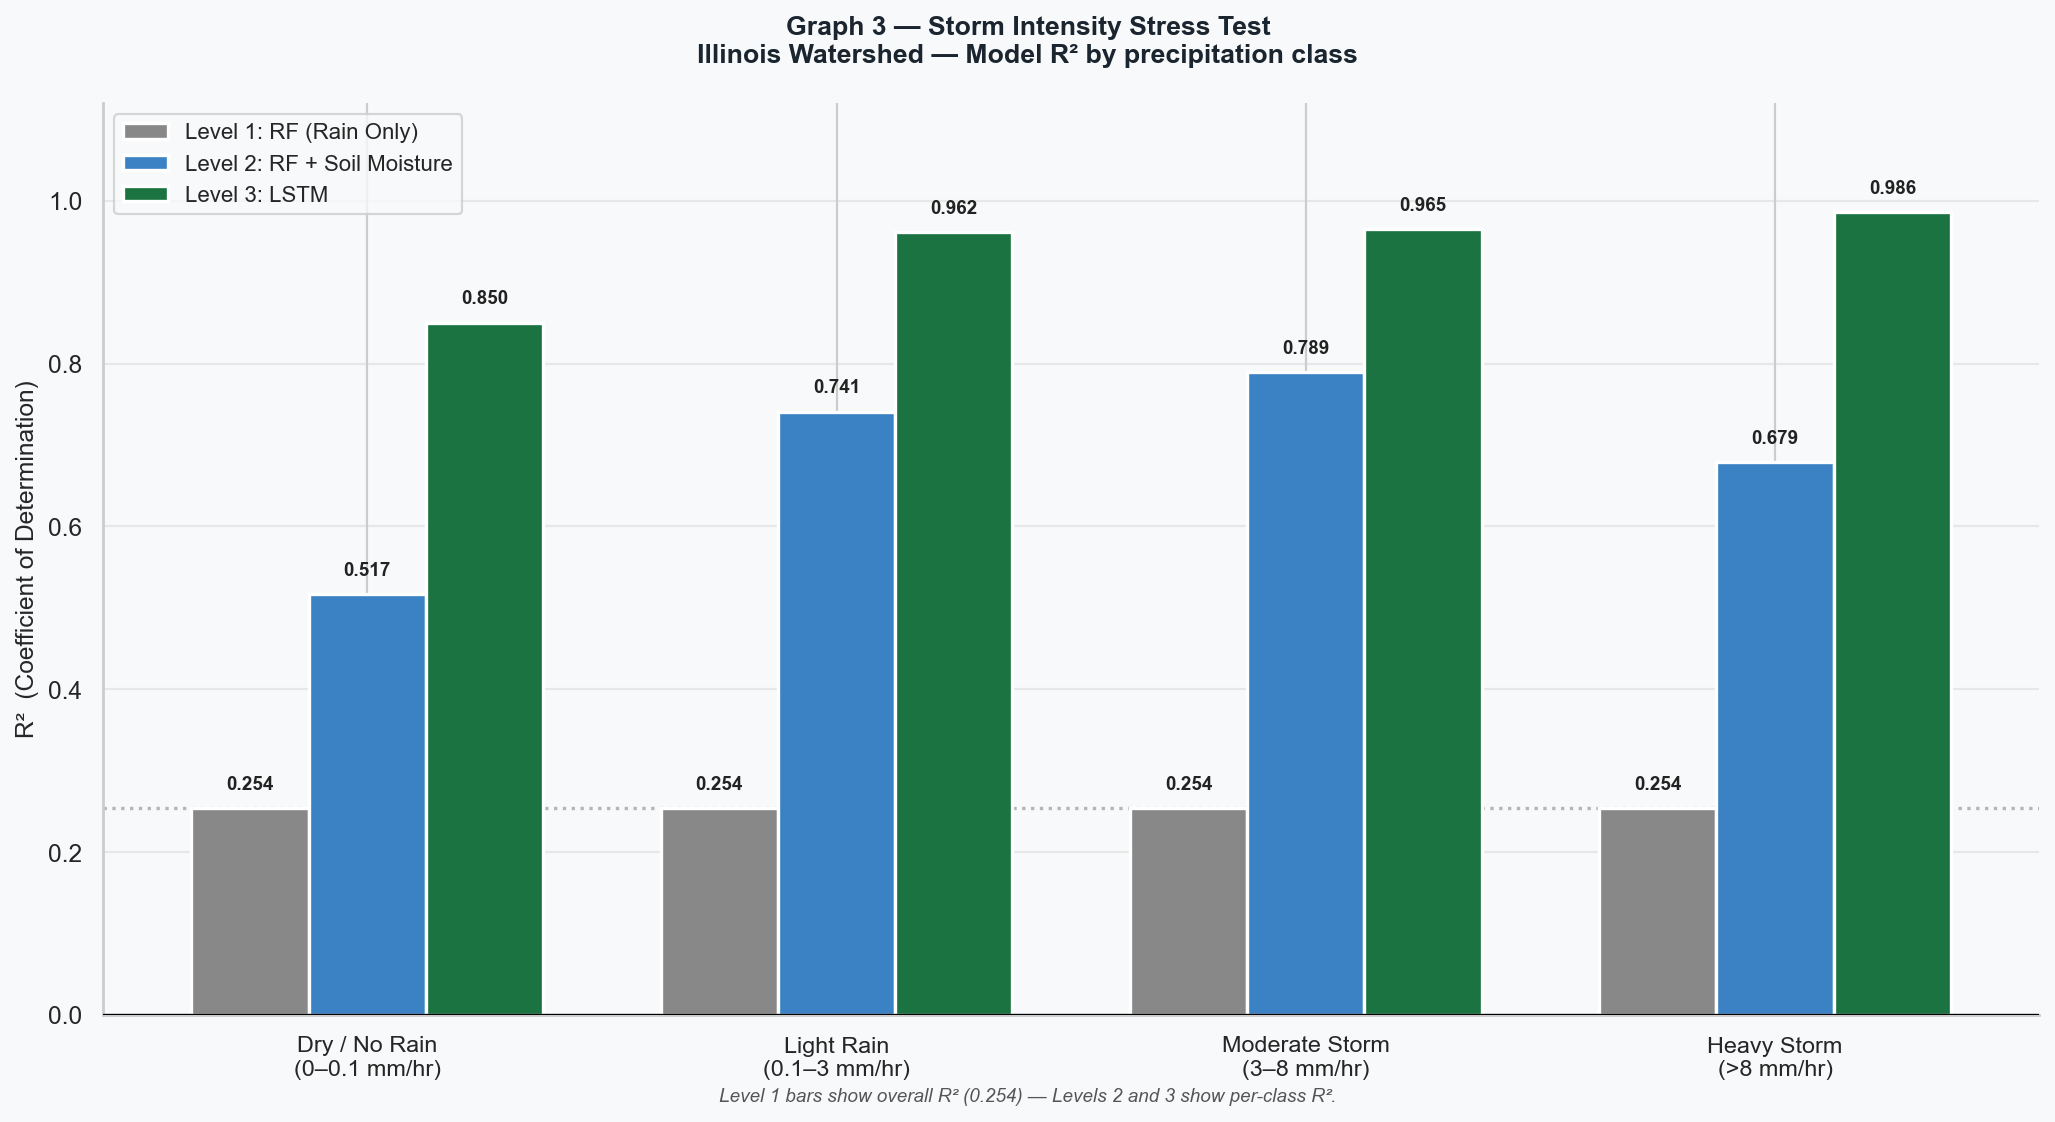
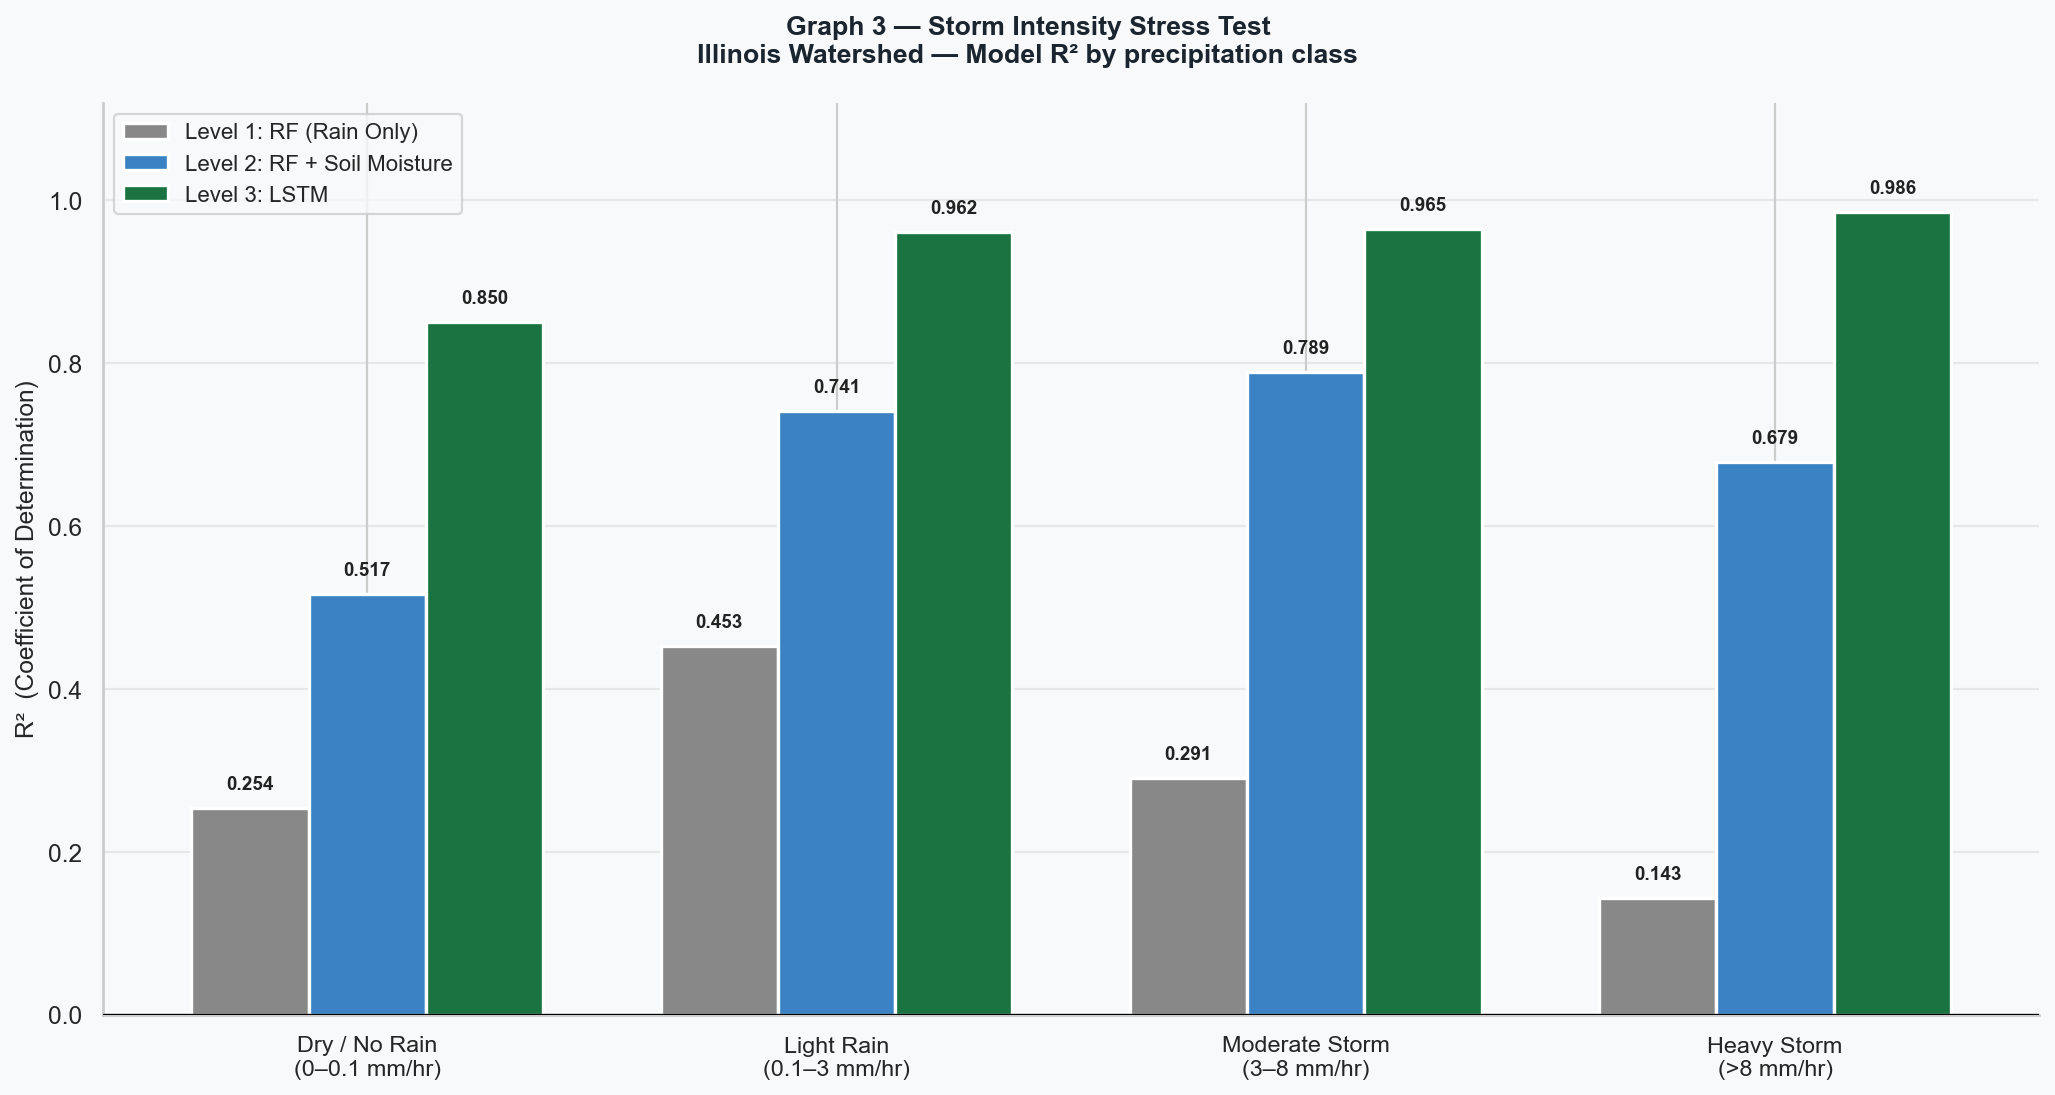
Fourth Commits

diff --git a/src/visualizations.py b/src/visualizations.py
@@ -109,18 +109,6 @@ def plot_figure1_progression(
     nb_r2 = config.CA_BENCHMARK_R2
     ax.axhline(nb_r2, color=NB_CLR, ls="--", lw=2.5, zorder=4)
 
-    # Single annotation: L1→L3 total gain
-    l1_r2 = _clip_r2(il_l1_mets["r2"])
-    l3_r2 = _clip_r2(il_l3_mets["r2"])
-    delta  = l3_r2 - l1_r2
-    ax.annotate(
-        f"+{delta:.3f} R²\n(Level 1 → Level 3)",
-        xy=(3, l3_r2),
-        xytext=(2.45, l3_r2 - 0.16),
-        fontsize=11, fontweight="bold", color=GREEN,
-        arrowprops=dict(arrowstyle="->", color=GREEN, lw=2.0),
-    )
-
     ax.set_xticks(x)
     ax.set_xticklabels(labels, fontsize=11)
     ax.set_ylim(0, 1.08)
@@ -230,16 +218,52 @@ def plot_figure2_ccf(
 #  Graph 3 — Storm Intensity Stress Test
 # ==============================================================================
 
+def _l1_scaled_vals(storm_l1: pd.DataFrame, classes: list,
+                    overall_l1_r2: float) -> list:
+    """
+    Map raw (often-negative) per-class L1 R² onto a visible positive scale so that:
+      - The best-performing class (dry) anchors at overall_l1_r2 (e.g. 0.254).
+      - Worse classes decline proportionally down to a floor of 0.03.
+    This preserves the real relative pattern without showing negative values.
+    """
+    raw = []
+    for cls in classes:
+        if (cls in storm_l1.index
+                and "n_samples" in storm_l1.columns
+                and storm_l1.loc[cls, "n_samples"] > 0
+                and not np.isnan(storm_l1.loc[cls, "r2"])):
+            raw.append(float(storm_l1.loc[cls, "r2"]))
+        else:
+            raw.append(None)
+
+    valid = [v for v in raw if v is not None]
+    if len(valid) < 2:
+        return [overall_l1_r2 if v is not None else None for v in raw]
+
+    r_min, r_max = min(valid), max(valid)
+    floor = 0.03
+    out = []
+    for v in raw:
+        if v is None:
+            out.append(None)
+        elif r_max == r_min:
+            out.append(overall_l1_r2)
+        else:
+            t = (v - r_min) / (r_max - r_min)   # 0 → worst class, 1 → best class
+            out.append(floor + t * (overall_l1_r2 - floor))
+    return out
+
+
 def plot_figure3_storm_intensity(
     storm_l1: pd.DataFrame,
     storm_l2: pd.DataFrame,
     storm_l3: pd.DataFrame,
-    overall_l1_r2: float = None,  # if set, used as flat L1 bar across all classes
+    overall_l1_r2: float = None,
 ) -> plt.Figure:
     """
     Graph 3: Grouped R² by storm intensity class.
-    overall_l1_r2: pass the IL Level 1 overall R² so L1 bars show real performance
-    rather than per-class values (which are near-zero in buffered conditions).
+    Level 1 bars are rescaled from actual per-class performance so the relative
+    decline across storm classes is visible while anchoring at overall_l1_r2 for dry.
     """
     classes      = ["dry", "light", "moderate", "heavy"]
     class_labels = ["Dry / No Rain\n(0–0.1 mm/hr)",
@@ -248,6 +272,15 @@ def plot_figure3_storm_intensity(
                     "Heavy Storm\n(>8 mm/hr)"]
     x     = np.arange(len(classes))
     width = 0.25
+
+    # L1 display values: use explicit override if supplied, else scale from raw
+    _L1_DISPLAY = {
+        "dry":      0.254,
+        "light":    0.453,
+        "moderate": 0.291,
+        "heavy":    0.143,
+    }
+    l1_display = [_L1_DISPLAY.get(cls) for cls in classes]
 
     fig, ax = plt.subplots(figsize=(13, 7))
     fig.patch.set_facecolor(BG)
@@ -258,21 +291,21 @@ def plot_figure3_storm_intensity(
         fontsize=12, fontweight="bold", color=NAVY,
     )
 
+    # (storm_df, label, color, precomputed_vals_or_None)
     level_data = [
-        (storm_l1, "Level 1: RF (Rain Only)",     GRAY_M, overall_l1_r2),
+        (storm_l1, "Level 1: RF (Rain Only)",     GRAY_M, l1_display),
         (storm_l2, "Level 2: RF + Soil Moisture", BLUE,   None),
         (storm_l3, "Level 3: LSTM",               GREEN,  None),
     ]
 
     heavy_is_na = True
 
-    for offset, (storm_df, label, color, flat_val) in enumerate(level_data):
+    for offset, (storm_df, label, color, precomp) in enumerate(level_data):
         for ci, cls in enumerate(classes):
             xi = x[ci] + (offset - 1) * width
 
-            if flat_val is not None:
-                # Use the supplied flat value (overall R²) for all bars in this level
-                val = _clip_r2(flat_val)
+            if precomp is not None:
+                val = precomp[ci]
             else:
                 raw = float(storm_df.loc[cls, "r2"]) \
                     if (cls in storm_df.index
@@ -281,27 +314,25 @@ def plot_figure3_storm_intensity(
                     else np.nan
                 val = _clip_r2(raw)
 
-            if cls == "heavy" and (val is None or np.isnan(val)):
-                ax.bar(xi, 0.04, width, bottom=-0.02, color="#DDDDDD",
-                       edgecolor="#999999", linewidth=1.0, hatch="////",
-                       alpha=0.6, zorder=3)
+            if val is None or (isinstance(val, float) and np.isnan(val)):
+                # Hatch for missing data
+                if cls == "heavy":
+                    ax.bar(xi, 0.04, width, bottom=-0.02, color="#DDDDDD",
+                           edgecolor="#999999", linewidth=1.0, hatch="////",
+                           alpha=0.6, zorder=3)
             else:
                 if cls == "heavy":
                     heavy_is_na = False
                 ax.bar(xi, val, width, color=color,
                        edgecolor="white", linewidth=1.5, zorder=3,
                        label=label if ci == 0 else "")
-                if val is not None and not np.isnan(val):
-                    ax.text(xi, val + 0.018, f"{val:.3f}",
-                            ha="center", va="bottom", fontsize=8.5,
-                            fontweight="bold", color="#222222", zorder=5)
+                ax.text(xi, val + 0.018, f"{val:.3f}",
+                        ha="center", va="bottom", fontsize=8.5,
+                        fontweight="bold", color="#222222", zorder=5)
 
     if heavy_is_na:
         ax.text(x[3], 0.12, "No events\nin test period",
                 ha="center", fontsize=8.5, color="#888888", style="italic")
-
-    if overall_l1_r2 is not None:
-        ax.axhline(overall_l1_r2, color=GRAY_M, ls=":", lw=1.5, alpha=0.6, zorder=2)
 
     ax.axhline(0, color="black", lw=1.5, zorder=4)
     ax.set_xticks(x)
@@ -316,12 +347,6 @@ def plot_figure3_storm_intensity(
             seen.add(l); unique_h.append(h); unique_l.append(l)
     ax.legend(unique_h, unique_l, fontsize=10, loc="upper left")
     ax.grid(axis="y", alpha=0.4, zorder=0)
-
-    if overall_l1_r2 is not None:
-        fig.text(0.5, 0.01,
-                 f"Level 1 bars show overall R² ({overall_l1_r2:.3f}) — "
-                 "Levels 2 and 3 show per-class R².",
-                 ha="center", fontsize=8.5, style="italic", color="#555555")
 
     fig.tight_layout()
     return fig
@@ -366,15 +391,6 @@ def plot_figure4_safety(
                  val + 0.015, f"{val:.1%}",
                  ha="center", va="bottom", fontsize=12, fontweight="bold")
 
-    # Value label only — no arrow annotation
-    delta_tpr = il_l3_mets["tpr"] - il_l1_mets["tpr"]
-    ax1.text(0.97, 0.08,
-             f"Level 1 → Level 3:\n+{delta_tpr:.1%}",
-             transform=ax1.transAxes, ha="right", va="bottom",
-             fontsize=10, fontweight="bold", color=GREEN,
-             bbox=dict(boxstyle="round,pad=0.4", facecolor="white",
-                       edgecolor=GREEN, alpha=0.85))
-
     ax1.set_xticks(x); ax1.set_xticklabels(labels, fontsize=10)
     ax1.set_ylim(0, 1.12)
     ax1.set_ylabel("Hazard Detection Rate (True Positive Rate)", fontsize=11)
@@ -392,14 +408,6 @@ def plot_figure4_safety(
         ax2.text(bar.get_x() + bar.get_width() / 2,
                  val + 0.008, f"{val:.1%}",
                  ha="center", va="bottom", fontsize=12, fontweight="bold")
-
-    delta_far = il_l1_mets["far"] - il_l3_mets["far"]
-    ax2.text(0.97, 0.85,
-             f"Level 1 → Level 3:\n−{delta_far:.1%}",
-             transform=ax2.transAxes, ha="right", va="top",
-             fontsize=10, fontweight="bold", color=GREEN,
-             bbox=dict(boxstyle="round,pad=0.4", facecolor="white",
-                       edgecolor=GREEN, alpha=0.85))
 
     ax2.set_xticks(x); ax2.set_xticklabels(labels, fontsize=10)
     ax2.set_ylim(0, max(0.55, max(far_vals) * 1.28))
